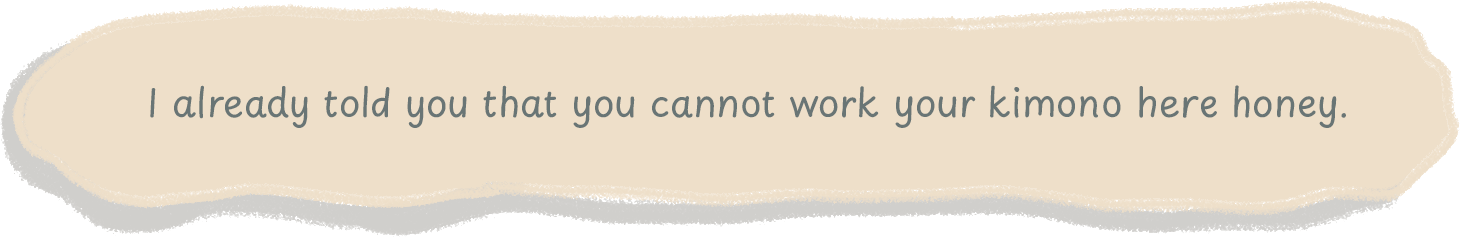
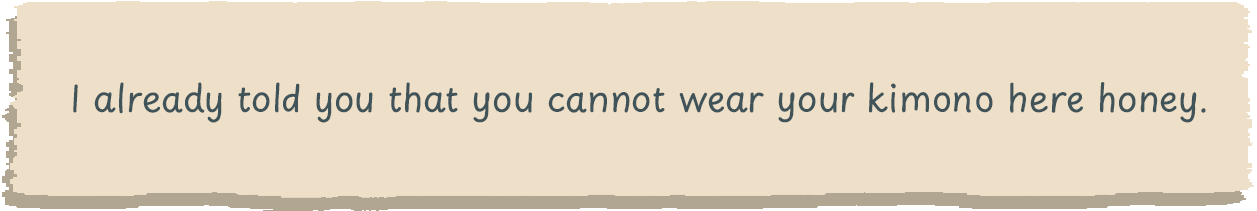
airport grandpa 2 added

Changed region(s): [[0.0, 0.0, 1.0, 1.0]]

diff --git a/codes/classroomFaces.html b/codes/classroomFaces.html
@@ -8,8 +8,6 @@
   body, html {
     margin: 0; padding: 0; height: 100%; overflow: hidden;
     cursor: url('../assets/classroomFaces/earCursor.png'), auto;
-    background: url('../assets/classroomFaces/ClassroomFaces.png') no-repeat center center;
-    background-size: contain;
     position: relative;
   }
 
@@ -37,17 +35,26 @@
 
   /* Textbox style */
   .textbox {
+   
+    left: 30%;
+    top: 82%;
+    width: 40%;
+    max-width: 200px;
+    height: auto;
     position: absolute;
+    z-index: 1;
     pointer-events: none;
     opacity: 0;
     transition: opacity 1s ease;
     user-select: none;
     display: none;
   }
+  
 </style>
 </head>
 <body>
 <div id="container">
+  <img id="bg" src="../assets/classroomFaces/ClassroomFaces.png" alt="Background" style="width:100%;height:100%;object-fit:contain;position:absolute;top:0;left:0;z-index:0;" />
   <img id="textbox1" class="textbox" src="../assets/classroomFaces/classroomTextbox1.png" alt="Textbox 1" />
   <img id="textbox2" class="textbox" src="../assets/classroomFaces/classroomTextbox2.png" alt="Textbox 2" />
   <img id="textbox3" class="textbox" src="../assets/classroomFaces/classroomTextbox3.png" alt="Textbox 3" />

diff --git a/codes/classroomFaces.js b/codes/classroomFaces.js
@@ -82,12 +82,6 @@ const hotspots = [
     // Get textbox element
     const textbox = document.getElementById(hotspot.textboxId);
   
-    // Set textbox position and size
-    textbox.style.top = hotspot.textboxPosition.top;
-    textbox.style.left = hotspot.textboxPosition.left;
-    textbox.style.width = hotspot.textboxSize.width;
-    textbox.style.height = hotspot.textboxSize.height;
-  
     // Mouse enter event
     div.addEventListener('mouseenter', () => {
       // Stop any existing audio and clear fade intervals
